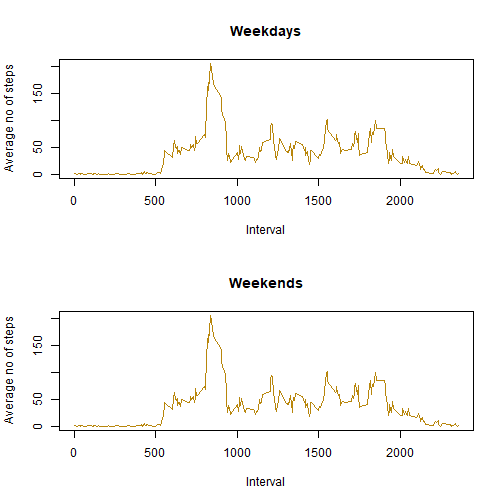
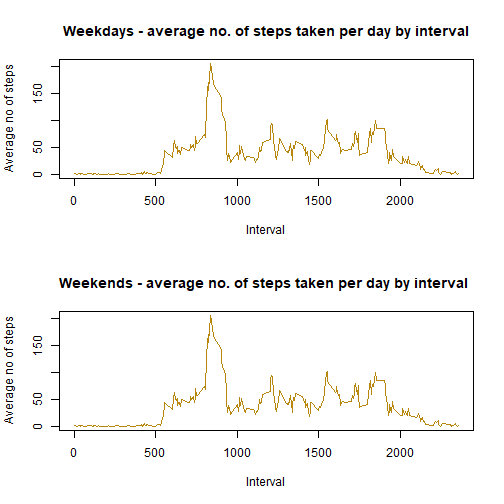
re adding files

Changed region(s): [[0.119, 0.5357, 0.9226, 0.5952], [0.119, 0.0298, 0.9524, 0.0893]]

diff --git a/PA1_template.html b/PA1_template.html
@@ -441,14 +441,14 @@ WeekendMean &lt;- subset(dataR,WeekFlag==&quot;Weekend&quot;) %&gt;% group_by(in
 
 <pre><code class="r">par(mfrow=c(2,1))
 plot(WeekdayMean,type=&quot;l&quot;,
-     main=&quot;Weekdays&quot;,
+     main=&quot;Weekdays - average no. of steps taken per day by interval&quot;,
      xlab=&quot;Interval&quot;,
      ylab=&quot;Average no of steps&quot;,
      col=&quot;darkgoldenrod&quot;,
      lwd=1
      )
 plot(WeekendMean,type=&quot;l&quot;,
-     main=&quot;Weekends&quot;,
+     main=&quot;Weekends - average no. of steps taken per day by interval &quot;,
      xlab=&quot;Interval&quot;,
      ylab=&quot;Average no of steps&quot;,
      col=&quot;darkgoldenrod&quot;,
@@ -456,7 +456,7 @@ plot(WeekendMean,type=&quot;l&quot;,
      )
 </code></pre>
 
[2 lines of base64/hex data omitted]
 
 </body>
 

diff --git a/PA1_template.md b/PA1_template.md
@@ -267,14 +267,14 @@ Now we will plot the data using type ="l"
 ```r
 par(mfrow=c(2,1))
 plot(WeekdayMean,type="l",
-     main="Weekdays",
+     main="Weekdays - average no. of steps taken per day by interval",
      xlab="Interval",
      ylab="Average no of steps",
      col="darkgoldenrod",
      lwd=1
      )
 plot(WeekendMean,type="l",
-     main="Weekends",
+     main="Weekends - average no. of steps taken per day by interval ",
      xlab="Interval",
      ylab="Average no of steps",
      col="darkgoldenrod",
